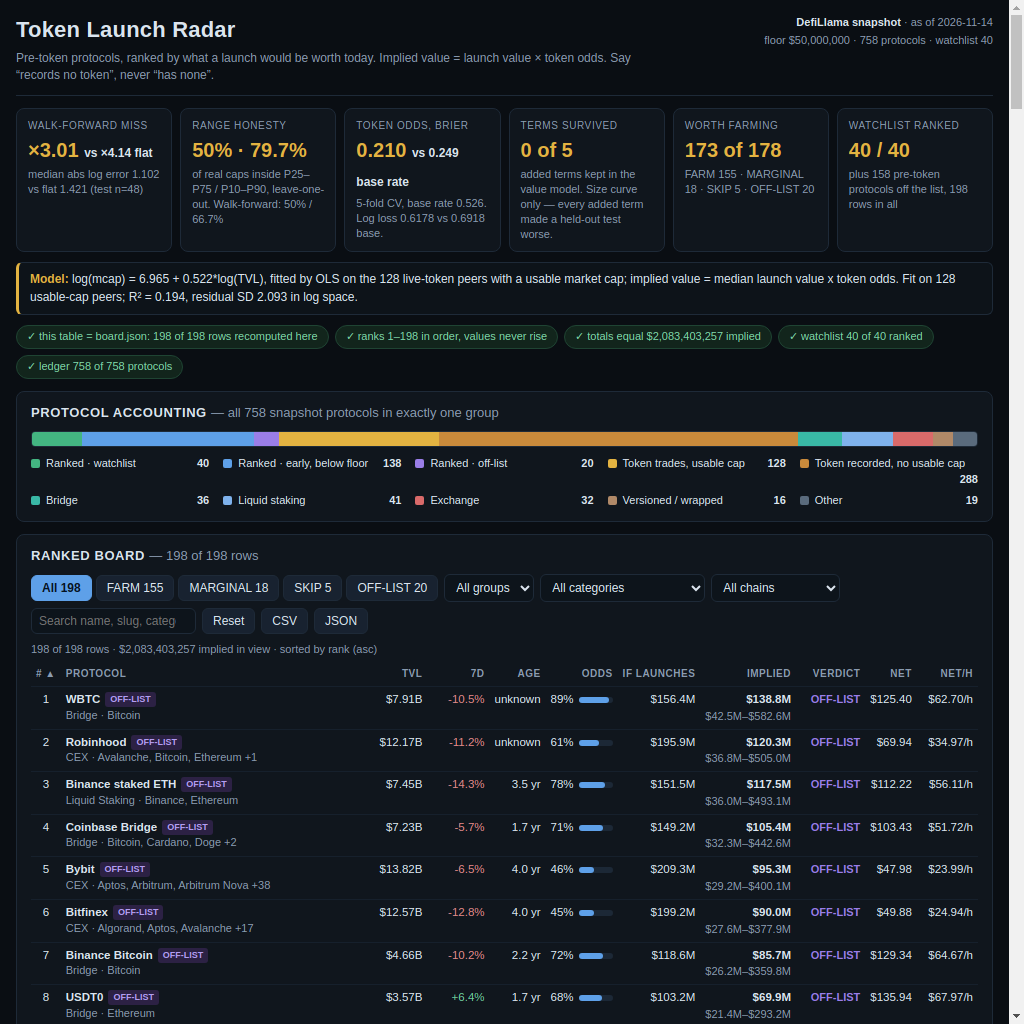
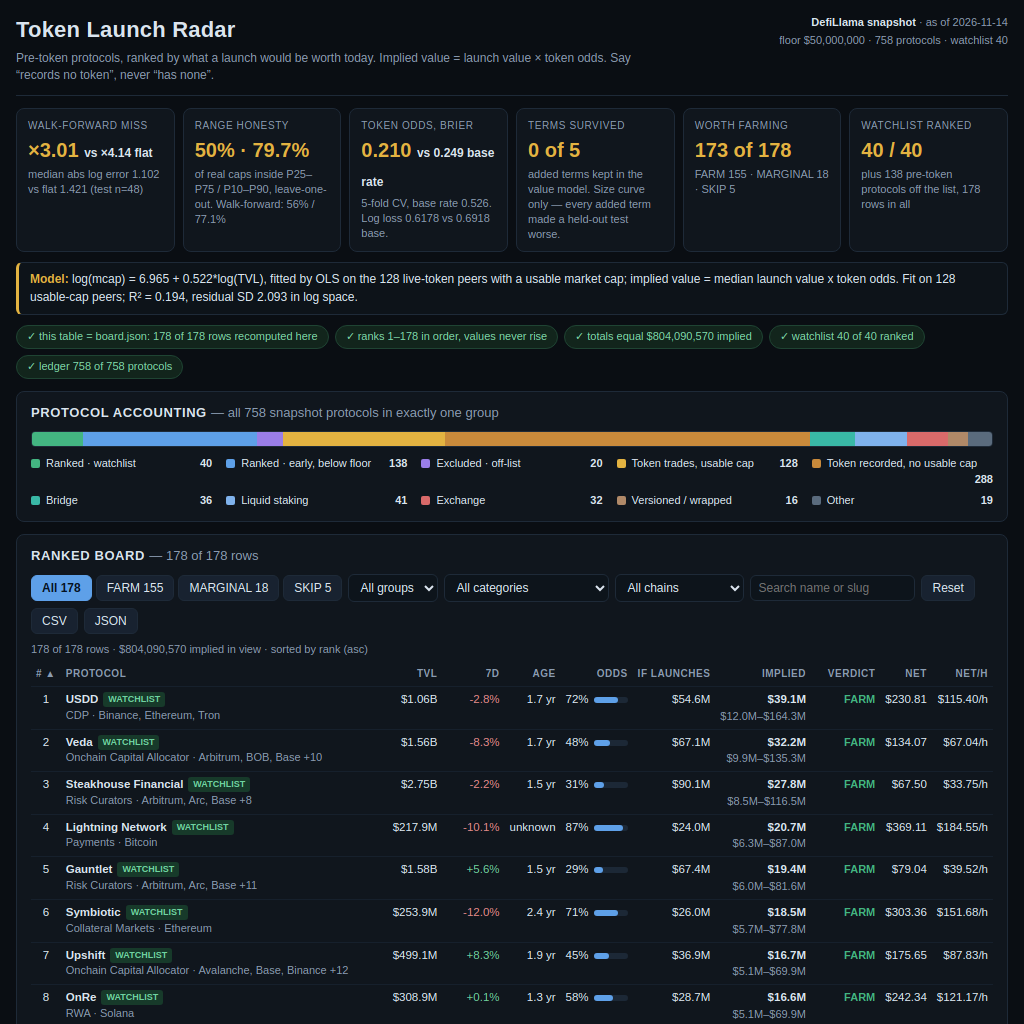
Token Launch Radar v2 — drop 20 off-list rows, rank 1 USDD, LOO calibration bands, fitted-vs-actual evidence

diff --git a/dashboard/index.html b/dashboard/index.html
@@ -48,7 +48,7 @@
     <tbody id="boardBody"></tbody>
   </table>
   </div>
-  <p class="hint">Click a row for its costed farm plan. Off-list rows are shown for coverage only and are never counted as worth farming.</p>
+  <p class="hint">Click a row for its costed farm plan. Every ranked row is a launch candidate; the 20 excluded off-list protocols are listed below, not ranked.</p>
 </section>
 
 <section class="panel">
@@ -64,6 +64,7 @@
       <table class="mini" id="oddsTable"></table>
       <h3>Is the printed range honest?</h3>
       <table class="mini" id="calTable"></table>
+      <p class="note">Walk-forward check with the same LOO bands: 56.2% of test caps inside P25&ndash;P75 (stated 50%) and 77.1% inside P10&ndash;P90 (stated 80%) &mdash; 27 of 48 and 37 of 48 test protocols.</p>
     </div>
     <div>
       <h3>How wide the bands are</h3>
@@ -72,6 +73,23 @@
       <h3>Farm economics <span class="dim">(assumptions, not fitted)</span></h3>
       <p class="note" id="farmNote"></p>
     </div>
+  </div>
+</section>
+
+<section class="panel">
+  <h2>Fitted vs actual &mdash; the 128 usable-cap peers</h2>
+  <div class="scatter"><svg width="100%" height="200" viewBox="0 0 320 200" role="img" aria-label="Fitted vs actual market cap, 128 peers"><g stroke="#16202c"><line x1="133.0" y1="18" x2="133.0" y2="174"/><line x1="271.8" y1="18" x2="271.8" y2="174"/><line x1="34" y1="160.1" x2="310" y2="160.1"/><line x1="34" y1="97.7" x2="310" y2="97.7"/><line x1="34" y1="35.3" x2="310" y2="35.3"/></g><g fill="#8a9bb0" font-size="9"><text x="133.0" y="192" text-anchor="middle">$100M TVL</text><text x="271.8" y="192" text-anchor="middle">$10B TVL</text><text x="30" y="163.1" text-anchor="end">$100K</text><text x="30" y="100.7" text-anchor="end">$10M</text><text x="30" y="38.3" text-anchor="end">$1B</text></g><line x1="34.0" y1="114.6" x2="310.0" y2="49.8" stroke="#e3b341" stroke-width="1.5"/><g fill="#5ea0e8" fill-opacity="0.75"><circle cx="130.2" cy="27.9" r="2.1"/><circle cx="73.6" cy="82.5" r="2.1"/><circle cx="65.2" cy="153.8" r="2.1"/><circle cx="85.8" cy="80.9" r="2.1"/><circle cx="71.8" cy="60.1" r="2.1"/><circle cx="68.6" cy="80.7" r="2.1"/><circle cx="103.2" cy="96.5" r="2.1"/><circle cx="74.2" cy="77.9" r="2.1"/><circle cx="56.7" cy="123.2" r="2.1"/><circle cx="114.4" cy="90.4" r="2.1"/><circle cx="233.3" cy="76.2" r="2.1"/><circle cx="179.9" cy="56.3" r="2.1"/><circle cx="65.6" cy="106.8" r="2.1"/><circle cx="129.3" cy="108.7" r="2.1"/><circle cx="68.7" cy="139.1" r="2.1"/><circle cx="131.5" cy="94.9" r="2.1"/><circle cx="129.8" cy="136.2" r="2.1"/><circle cx="57.4" cy="159.9" r="2.1"/><circle cx="103.8" cy="117.3" r="2.1"/><circle cx="208.4" cy="81.4" r="2.1"/><circle cx="100.0" cy="32.7" r="2.1"/><circle cx="62.3" cy="88.9" r="2.1"/><circle cx="107.3" cy="104.7" r="2.1"/><circle cx="147.2" cy="59.5" r="2.1"/><circle cx="66.6" cy="90.6" r="2.1"/><circle cx="105.9" cy="68.9" r="2.1"/><circle cx="118.5" cy="163.2" r="2.1"/><circle cx="205.2" cy="87.6" r="2.1"/><circle cx="179.1" cy="61.1" r="2.1"/><circle cx="79.7" cy="104.0" r="2.1"/><circle cx="140.5" cy="97.0" r="2.1"/><circle cx="250.3" cy="60.4" r="2.1"/><circle cx="88.3" cy="101.1" r="2.1"/><circle cx="126.1" cy="109.8" r="2.1"/><circle cx="58.4" cy="99.3" r="2.1"/><circle cx="53.0" cy="102.1" r="2.1"/><circle cx="66.7" cy="139.5" r="2.1"/><circle cx="71.7" cy="130.5" r="2.1"/><circle cx="215.8" cy="50.8" r="2.1"/><circle cx="63.8" cy="57.7" r="2.1"/><circle cx="63.9" cy="75.4" r="2.1"/><circle cx="112.1" cy="100.0" r="2.1"/><circle cx="53.3" cy="102.5" r="2.1"/><circle cx="126.2" cy="116.3" r="2.1"/><circle cx="48.3" cy="100.3" r="2.1"/><circle cx="253.6" cy="36.4" r="2.1"/><circle cx="84.0" cy="112.6" r="2.1"/><circle cx="48.5" cy="169.9" r="2.1"/><circle cx="205.4" cy="103.6" r="2.1"/><circle cx="44.3" cy="135.0" r="2.1"/><circle cx="74.8" cy="111.4" r="2.1"/><circle cx="57.5" cy="94.8" r="2.1"/><circle cx="62.6" cy="111.1" r="2.1"/><circle cx="172.4" cy="93.8" r="2.1"/><circle cx="85.8" cy="80.1" r="2.1"/><circle cx="120.5" cy="91.7" r="2.1"/><circle cx="64.9" cy="123.0" r="2.1"/><circle cx="67.6" cy="141.6" r="2.1"/><circle cx="93.9" cy="103.1" r="2.1"/><circle cx="101.1" cy="92.8" r="2.1"/><circle cx="54.1" cy="166.9" r="2.1"/><circle cx="91.3" cy="145.8" r="2.1"/><circle cx="64.4" cy="150.0" r="2.1"/><circle cx="290.7" cy="54.0" r="2.1"/><circle cx="58.4" cy="111.7" r="2.1"/><circle cx="43.0" cy="106.9" r="2.1"/><circle cx="45.7" cy="105.7" r="2.1"/><circle cx="84.4" cy="86.7" r="2.1"/><circle cx="130.4" cy="31.4" r="2.1"/><circle cx="170.8" cy="77.7" r="2.1"/><circle cx="54.2" cy="153.8" r="2.1"/><circle cx="94.0" cy="99.3" r="2.1"/><circle cx="178.7" cy="120.7" r="2.1"/><circle cx="243.0" cy="63.0" r="2.1"/><circle cx="55.3" cy="103.0" r="2.1"/><circle cx="64.2" cy="40.0" r="2.1"/><circle cx="206.5" cy="133.4" r="2.1"/><circle cx="301.0" cy="26.1" r="2.1"/><circle cx="56.8" cy="85.7" r="2.1"/><circle cx="142.9" cy="89.6" r="2.1"/><circle cx="230.8" cy="36.7" r="2.1"/><circle cx="210.0" cy="72.0" r="2.1"/><circle cx="89.3" cy="79.7" r="2.1"/><circle cx="106.7" cy="118.9" r="2.1"/><circle cx="135.3" cy="65.9" r="2.1"/><circle cx="51.2" cy="22.1" r="2.1"/><circle cx="180.8" cy="78.9" r="2.1"/><circle cx="128.5" cy="82.9" r="2.1"/><circle cx="107.8" cy="68.0" r="2.1"/><circle cx="130.4" cy="133.2" r="2.1"/><circle cx="48.7" cy="102.9" r="2.1"/><circle cx="107.6" cy="124.0" r="2.1"/><circle cx="200.3" cy="82.7" r="2.1"/><circle cx="103.4" cy="79.8" r="2.1"/><circle cx="75.8" cy="123.2" r="2.1"/><circle cx="59.6" cy="105.3" r="2.1"/><circle cx="154.1" cy="99.3" r="2.1"/><circle cx="272.4" cy="83.0" r="2.1"/><circle cx="146.1" cy="101.8" r="2.1"/><circle cx="155.8" cy="52.2" r="2.1"/><circle cx="85.8" cy="82.7" r="2.1"/><circle cx="59.9" cy="126.0" r="2.1"/><circle cx="110.5" cy="98.1" r="2.1"/><circle cx="43.6" cy="127.1" r="2.1"/><circle cx="98.4" cy="76.3" r="2.1"/><circle cx="192.7" cy="62.7" r="2.1"/><circle cx="56.7" cy="122.9" r="2.1"/><circle cx="53.5" cy="84.8" r="2.1"/><circle cx="65.9" cy="91.8" r="2.1"/><circle cx="112.9" cy="112.5" r="2.1"/><circle cx="72.5" cy="121.1" r="2.1"/><circle cx="115.8" cy="58.5" r="2.1"/><circle cx="190.0" cy="86.7" r="2.1"/><circle cx="113.6" cy="107.9" r="2.1"/><circle cx="64.9" cy="99.0" r="2.1"/><circle cx="146.7" cy="72.6" r="2.1"/><circle cx="126.0" cy="87.1" r="2.1"/><circle cx="95.0" cy="127.0" r="2.1"/><circle cx="66.1" cy="81.9" r="2.1"/><circle cx="47.9" cy="127.6" r="2.1"/><circle cx="114.7" cy="98.8" r="2.1"/><circle cx="157.3" cy="167.9" r="2.1"/><circle cx="71.6" cy="94.1" r="2.1"/><circle cx="127.0" cy="93.0" r="2.1"/><circle cx="68.5" cy="142.4" r="2.1"/><circle cx="130.0" cy="61.2" r="2.1"/><circle cx="117.7" cy="89.2" r="2.1"/><circle cx="58.0" cy="115.6" r="2.1"/></g><text x="34" y="12" fill="#dbe4ee" font-size="10">Each dot: one peer; gold line: fitted size curve</text></svg></div>
+  <p class="note">Fitted caps from log(mcap) = 6.965 + 0.522&middot;log(TVL). The 20 peers below are evenly spaced by TVL across all 128. Median actual / fitted is 1.08&times;; 56 of 128 peers land within 3&times; of fitted, 100 of 128 within 10&times; &mdash; the fit is weak (R&sup2; = 0.194), and the scatter shows it.</p>
+  <div class="tscroll">
+  <table class="mini" id="fittedTable"><thead><tr><th>Peer</th><th class="num">TVL</th><th class="num">Fitted cap</th><th class="num">Actual cap</th><th class="num">Actual / fitted</th></tr></thead><tbody><tr><td class="l">looped-hype</td><td class="num">$5.0M</td><td class="num">$3.4M</td><td class="num">$5.0M</td><td class="num">1.5&times;</td></tr><tr><td class="l">resolv-usr</td><td class="num">$6.1M</td><td class="num">$3.7M</td><td class="num">$6.8M</td><td class="num">1.8&times;</td></tr><tr><td class="l">merlinswap</td><td class="num">$7.3M</td><td class="num">$4.1M</td><td class="num">$159K</td><td class="num">0.04&times;</td></tr><tr><td class="l">zyfai</td><td class="num">$8.3M</td><td class="num">$4.3M</td><td class="num">$2.7M</td><td class="num">0.6&times;</td></tr><tr><td class="l">flokifi-locker</td><td class="num">$10M</td><td class="num">$4.8M</td><td class="num">$191M</td><td class="num">39.7&times;</td></tr><tr><td class="l">acryptos</td><td class="num">$11M</td><td class="num">$4.9M</td><td class="num">$158K</td><td class="num">0.03&times;</td></tr><tr><td class="l">yield-yak-aggregator</td><td class="num">$12M</td><td class="num">$5.2M</td><td class="num">$368K</td><td class="num">0.07&times;</td></tr><tr><td class="l">across</td><td class="num">$14M</td><td class="num">$5.7M</td><td class="num">$31M</td><td class="num">5.4&times;</td></tr><tr><td class="l">manta-pacific</td><td class="num">$20M</td><td class="num">$6.9M</td><td class="num">$22M</td><td class="num">3.3&times;</td></tr><tr><td class="l">inverse-finance-firm</td><td class="num">$27M</td><td class="num">$8.1M</td><td class="num">$6.7M</td><td class="num">0.8&times;</td></tr><tr><td class="l">sdai</td><td class="num">$37M</td><td class="num">$9.5M</td><td class="num">$37M</td><td class="num">3.9&times;</td></tr><tr><td class="l">stusdt</td><td class="num">$47M</td><td class="num">$11M</td><td class="num">$9.7M</td><td class="num">0.9&times;</td></tr><tr><td class="l">thorchain-dex</td><td class="num">$56M</td><td class="num">$12M</td><td class="num">$180M</td><td class="num">15.2&times;</td></tr><tr><td class="l">yield-basis</td><td class="num">$82M</td><td class="num">$14M</td><td class="num">$14M</td><td class="num">1.0&times;</td></tr><tr><td class="l">reservoir-protocol</td><td class="num">$92M</td><td class="num">$15M</td><td class="num">$729K</td><td class="num">0.05&times;</td></tr><tr><td class="l">usd-ai</td><td class="num">$157M</td><td class="num">$20M</td><td class="num">$63M</td><td class="num">3.1&times;</td></tr><tr><td class="l">meth-protocol</td><td class="num">$455M</td><td class="num">$35M</td><td class="num">$1.8M</td><td class="num">0.05&times;</td></tr><tr><td class="l">concrete</td><td class="num">$1.10B</td><td class="num">$56M</td><td class="num">$21M</td><td class="num">0.4&times;</td></tr><tr><td class="l">polygon-bridge</td><td class="num">$2.56B</td><td class="num">$87M</td><td class="num">$902M</td><td class="num">10.4&times;</td></tr><tr><td class="l">okx</td><td class="num">$26B</td><td class="num">$293M</td><td class="num">$1.97B</td><td class="num">6.7&times;</td></tr></tbody></table>
+  </div>
+</section>
+
+<section class="panel">
+  <h2>Excluded from ranking &mdash; token already trades</h2>
+  <p class="note">These 20 protocols are the highest-implied pre-token protocols the watchlist rule excludes. Their implied values are mechanical size-curve extrapolations, not launch values: each is a bridge, a liquid-staking product, a centralised exchange, or a versioned / wrapped variant of a token that already trades. They are not ranked, not counted as worth farming, and their 20 rows are the ledger&rsquo;s excluded_off_list group. Together they would have been $1,279M of implied value &mdash; 61% of the old board total &mdash; which is why they are listed here, not on the board.</p>
+  <div class="tscroll">
+  <table class="mini" id="excludedTable"><thead><tr><th>Protocol</th><th>Reason excluded</th><th class="num">Mechanical implied value</th></tr></thead><tbody><tr><td class="l">wbtc</td><td>Bridge</td><td class="num">$139M</td></tr><tr><td class="l">robinhood</td><td>Exchange</td><td class="num">$120M</td></tr><tr><td class="l">binance-staked-eth</td><td>Liquid staking</td><td class="num">$117M</td></tr><tr><td class="l">coinbase-bridge</td><td>Bridge</td><td class="num">$105M</td></tr><tr><td class="l">bybit</td><td>Exchange</td><td class="num">$95M</td></tr><tr><td class="l">bitfinex</td><td>Exchange</td><td class="num">$90M</td></tr><tr><td class="l">binance-bitcoin</td><td>Bridge</td><td class="num">$86M</td></tr><tr><td class="l">usdt0</td><td>Bridge</td><td class="num">$70M</td></tr><tr><td class="l">base-bridge</td><td>Bridge</td><td class="num">$68M</td></tr><tr><td class="l">bitget</td><td>Exchange</td><td class="num">$54M</td></tr><tr><td class="l">htx</td><td>Exchange</td><td class="num">$43M</td></tr><tr><td class="l">deribit</td><td>Exchange</td><td class="num">$40M</td></tr><tr><td class="l">bitstamp</td><td>Exchange</td><td class="num">$40M</td></tr><tr><td class="l">ccip</td><td>Bridge</td><td class="num">$33M</td></tr><tr><td class="l">kucoin</td><td>Exchange</td><td class="num">$32M</td></tr><tr><td class="l">binance-staked-sol</td><td>Liquid staking</td><td class="num">$31M</td></tr><tr><td class="l">unit</td><td>Bridge</td><td class="num">$31M</td></tr><tr><td class="l">gemini</td><td>Exchange</td><td class="num">$30M</td></tr><tr><td class="l">crypto-com</td><td>Exchange</td><td class="num">$28M</td></tr><tr><td class="l">kraken-bitcoin</td><td>Bridge</td><td class="num">$27M</td></tr></tbody></table>
   </div>
 </section>
 

diff --git a/main.ts b/main.ts
@@ -21,9 +21,11 @@
 //     at a $3.00 fee and 2.0 hours per protocol.
 //
 // Board membership is derived from the snapshot, never from a hand-kept list
-// of names: all 40 watchlist slugs, every eligible below-floor pre-token
-// protocol ("early"), and the 20 highest-implied pre-token protocols the
-// watchlist rule excludes ("off-list", shown for coverage, verdict OFF-LIST).
+// of names: all 40 watchlist slugs and every eligible below-floor pre-token
+// protocol ("early"). The 20 highest-implied pre-token protocols the
+// watchlist rule excludes are NOT ranked: their token already trades (bridge,
+// liquid-staking, exchange, versioned-wrapped), so they are listed separately
+// in data.js as excluded_off_list and in the dashboard's audit section.
 // Saying a protocol "records no token" means the snapshot records none —
 // never a claim that it has none.
 //
@@ -51,7 +53,10 @@ const VALUE_INTERCEPT = 6.96456651;
 const VALUE_SLOPE = 0.52226555;
 /** Residual SD of the value fit, in log space (R^2 = 0.194, n = 128 peers). */
 const VALUE_RESIDUAL_SD = 2.093;
-/** Band multipliers on the point prediction, from leave-one-out residuals. */
+/** Band multipliers on the point prediction, from leave-one-out residuals
+ * (all 128 usable-cap peers). Walk-forward coverage below is measured with
+ * these same LOO bands on the walk-forward test residuals (27/48 inside
+ * P25–P75, 37/48 inside P10–P90). */
 const BAND = { p25: 0.306, p75: 4.197, p10: 0.062, p90: 8.629 };
 
 /** Token-odds logistic model: standardisation of the two z-scored inputs
@@ -93,8 +98,8 @@ const FARM_PER_HOUR_MIN = 12.5;
 const MARGINAL_NET_MIN = 5.0;
 const MARGINAL_PER_HOUR_MIN = 2.5;
 
-/** How many off-list rows the board shows, by implied value. */
-const OFF_LIST_SHOWN = 20;
+/** How many excluded off-list rows the audit section lists, by implied value. */
+const EXCLUDED_SHOWN = 20;
 
 /** Watchlist-rule patterns, restated from the snapshot's field guide. */
 const VERSION_RE = /\s(V\d+(\.\d+)?|v\d+(\.\d+)?|\d+\.\d+)$/;
@@ -401,10 +406,11 @@ for (const p of preToken) {
 const offScored = offPool
   .map((p) => ({ row: scoreProtocol(p, 'off-list', offListReason(p), false), p }))
   .sort((a, b) => b.row.implied_usd - a.row.implied_usd || bySlug(a.row.slug, b.row.slug));
-const offRows = offScored.slice(0, OFF_LIST_SHOWN).map((o) => o.row);
-const offBoardSlugs = new Set(offRows.map((r) => r.slug));
+/** The 20 highest-implied excluded protocols: NOT ranked, listed in the audit section. */
+const excludedRows = offScored.slice(0, EXCLUDED_SHOWN).map((o) => o.row);
+const excludedSlugs = new Set(excludedRows.map((r) => r.slug));
 
-const board = [...watchRows, ...earlyRows, ...offRows].sort(
+const board = [...watchRows, ...earlyRows].sort(
   (a, b) => b.implied_usd - a.implied_usd || bySlug(a.slug, b.slug),
 );
 board.forEach((row, i) => {
@@ -416,7 +422,7 @@ board.forEach((row, i) => {
 
 /** Every protocol in exactly one ledger group (sums to the snapshot size). */
 function ledgerCounts(): Record<string, number> {
-  const remainder = offPool.filter((p) => !offBoardSlugs.has(p.slug));
+  const remainder = offPool.filter((p) => !excludedSlugs.has(p.slug));
   const groups: Record<string, number> = { bridge: 0, 'liquid-staking': 0, exchange: 0, 'versioned-wrapped': 0, other: 0 };
   for (const p of remainder) groups[offListReason(p)] = (groups[offListReason(p)] ?? 0) + 1;
   const tokenTrades = snapshot.protocols.filter((p) => p.mcap_usd !== null && p.mcap_usd > 0).length;
@@ -424,7 +430,7 @@ function ledgerCounts(): Record<string, number> {
   return {
     ranked_watchlist: watchRows.length,
     ranked_early: earlyRows.length,
-    ranked_off_list: offRows.length,
+    excluded_off_list: excludedRows.length,
     token_trades: tokenTrades,
     no_usable_cap: noUsableCap,
     bridge: groups['bridge'] ?? 0,
@@ -465,7 +471,10 @@ const radarData = {
   meta: {
     title: 'Token Launch Radar',
     as_of: asOf,
-    source: snapshot.source,
+    // The snapshot's source string carries its fetch URL; strip it so no
+    // output file contains an http(s) string (the dashboard shows only the
+    // first word of this field, and the dossier never includes data.js).
+    source: snapshot.source.replace(/\s*https?:\/\/\S+/, ''),
     floor_usd: floorUsd,
     protocols_in_snapshot: snapshot.protocols.length,
     watchlist_size: snapshot.watchlist.length,
@@ -533,7 +542,7 @@ const radarData = {
     ],
     validation: {
       loo: { n: 128, median_abs_log_error: 1.223, multiplicative_miss_median_x: 3.4, flat_baseline_median_abs_log_error: 1.591, flat_baseline_multiplicative_miss_median_x: 4.91, range_coverage_p25_p75: 0.5, range_coverage_p10_p90: 0.797 },
-      walk_forward: { split_date: '2024-02-18', train_n: 47, test_n: 48, median_abs_log_error: 1.102, multiplicative_miss_median_x: 3.01, flat_baseline_median_abs_log_error: 1.421, flat_baseline_multiplicative_miss_median_x: 4.14, range_coverage_p25_p75: 0.5, range_coverage_p10_p90: 0.667 },
+      walk_forward: { split_date: '2024-02-18', train_n: 47, test_n: 48, median_abs_log_error: 1.102, multiplicative_miss_median_x: 3.01, flat_baseline_median_abs_log_error: 1.421, flat_baseline_multiplicative_miss_median_x: 4.14, range_coverage_p25_p75: 0.5625, range_coverage_p10_p90: 0.7708 },
       token_odds: { cv_brier_5fold: 0.21, base_rate_brier: 0.249, cv_log_loss: 0.6178, base_log_loss: 0.6918 },
     },
     farm_economics: {
@@ -557,13 +566,25 @@ const radarData = {
       'Odds are miscalibrated at the bottom: the lowest CV decile predicts 0.059 mean odds vs 0.214 observed.',
       'change_7d was dropped from both models (one +4448.5% outlier dominates its scale in the odds model; it hurt LOO in the value model).',
       'Implied values are conditional medians, not means; the lognormal mean would be ~8.9x the median.',
-      'Walk-forward P10-P90 bands under-cover at 66.7% (LOO 79.7%): the wide bands are still too narrow out of time.',
-      'Off-list rows are mechanical extrapolations, not launch candidates; their odds (up to 0.888) are overstated by a model with no wrapped/exchange feature.',
+      'Walk-forward bands cover 56.2% (P25-P75) and 77.1% (P10-P90) against stated 50% / 80%, measured with the same LOO bands the board uses: the P10-P90 band still under-covers slightly out of time.',
+      'The 20 excluded off-list protocols are mechanical extrapolations, not launch candidates; their odds (up to 0.888) are overstated by a model with no wrapped/exchange feature. They are listed, not ranked, in the audit section.',
       'Farm economics are assumptions stated above and cannot be validated from the snapshot; treat net $ as a ranking aid, not a promise.',
       '"Records no token" means the snapshot records none — never a claim that a protocol has none.',
     ],
   },
   board,
+  /** The 20 highest-implied pre-token protocols the watchlist rule excludes: not ranked, not farmable. */
+  excluded_off_list: excludedRows.map((r) => ({
+    slug: r.slug,
+    name: r.name,
+    category: r.category,
+    tvl_usd: r.tvl_usd,
+    off_list_reason: r.off_list_reason,
+    odds: r.odds,
+    if_launches_usd: r.if_launches_usd,
+    implied_usd: r.implied_usd,
+    implied_value_usd: r.implied_value_usd,
+  })),
   live_top_24: liveTop24,
 };
 
@@ -641,8 +662,8 @@ else {
 }
 
 process.stdout.write(
-  `token-launch-radar: ${snapshot.protocols.length} protocols, watchlist ${snapshot.watchlist.length}, board ${board.length} rows (watchlist ${watchRows.length}, early ${earlyRows.length}, off-list ${offRows.length})\n` +
-    `token-launch-radar: worth farming ${worthFarming}/${farmableRows.length} (FARM ${verdictCounts['FARM']}, MARGINAL ${verdictCounts['MARGINAL']}, SKIP ${verdictCounts['SKIP']}, OFF-LIST ${verdictCounts['OFF-LIST']}); total implied ${money(totalImplied)}, farmable ${money(totalImpliedFarmable)}\n` +
+  `token-launch-radar: ${snapshot.protocols.length} protocols, watchlist ${snapshot.watchlist.length}, board ${board.length} rows (watchlist ${watchRows.length}, early ${earlyRows.length}), excluded off-list ${excludedRows.length}\n` +
+    `token-launch-radar: worth farming ${worthFarming}/${farmableRows.length} (FARM ${verdictCounts['FARM']}, MARGINAL ${verdictCounts['MARGINAL']}, SKIP ${verdictCounts['SKIP']}); total implied ${money(totalImplied)}, farmable ${money(totalImpliedFarmable)}\n` +
     `token-launch-radar: sorted non-rising: yes; farm-step violations: 0; dashboard files copied: ${dashFiles.length}; screenshots copied: ${shotFiles.length}\n` +
     `token-launch-radar: wrote ${join(outDir, 'board.json')}, ${join(outDir, 'data.js')}${existsSync(join(outDir, 'dossier.json')) ? `, ${join(outDir, 'dossier.json')}` : ' (no dossier: dashboard/screenshots absent)'}\n`,
 );

diff --git a/dashboard/app.js b/dashboard/app.js
@@ -31,7 +31,7 @@ function render(){
     ["Range honesty",""+(V.loo.range_coverage_p25_p75*100).toFixed(0)+"% &middot; "+(V.loo.range_coverage_p10_p90*100).toFixed(1)+"%","of real caps inside P25&ndash;P75 / P10&ndash;P90, leave-one-out. Walk-forward: "+(V.walk_forward.range_coverage_p25_p75*100).toFixed(0)+"% / "+(V.walk_forward.range_coverage_p10_p90*100).toFixed(1)+"%"],
     ["Token odds, Brier",V.token_odds.cv_brier_5fold.toFixed(3)+" <small>vs "+V.token_odds.base_rate_brier.toFixed(3)+" base rate</small>","5-fold CV, base rate "+Mo.token_odds_model.base_rate+". Log loss "+V.token_odds.cv_log_loss+" vs "+V.token_odds.base_log_loss+" base."],
     ["Terms survived",kept+" of "+Mo.keep_drop.length,"added terms kept in the value model. Size curve only &mdash; every added term made a held-out test worse."],
-    ["Worth farming",K.worth_farming+" of "+K.farmable_rows,"FARM "+K.verdict_counts.FARM+" &middot; MARGINAL "+K.verdict_counts.MARGINAL+" &middot; SKIP "+K.verdict_counts.SKIP+" &middot; OFF-LIST "+K.verdict_counts["OFF-LIST"]],
+    ["Worth farming",K.worth_farming+" of "+K.farmable_rows,"FARM "+K.verdict_counts.FARM+" &middot; MARGINAL "+K.verdict_counts.MARGINAL+" &middot; SKIP "+K.verdict_counts.SKIP],
     ["Watchlist ranked",K.watchlist_covered+" / "+M.watchlist_size,"plus "+(K.rows-K.watchlist_covered)+" pre-token protocols off the list, "+K.rows+" rows in all"]
   ];
   $("kpis").innerHTML=kpis.map(function(k){return '<div class="kpi"><div class="l">'+k[0]+'</div><div class="v">'+k[1]+'</div><div class="s">'+k[2]+'</div></div>';}).join("");
@@ -49,7 +49,7 @@ function render(){
   ];
   $("checks").innerHTML=checks.map(function(c){return '<span class="'+(c[1]?"":"bad")+'">'+(c[1]?"\u2713 ":"\u2717 ")+c[0]+"</span>";}).join("");
   // ledger
-  var groups=[["ranked_watchlist","Ranked \u00b7 watchlist","#43b581"],["ranked_early","Ranked \u00b7 early, below floor","#5ea0e8"],["ranked_off_list","Ranked \u00b7 off-list","#9a7ee8"],["token_trades","Token trades, usable cap","#e3b341"],["no_usable_cap","Token recorded, no usable cap","#c98a3b"],["bridge","Bridge","#39b8a6"],["liquid_staking","Liquid staking","#7fb2ec"],["exchange","Exchange","#d96a6a"],["versioned_wrapped","Versioned / wrapped","#b08968"],["other","Other","#5a6b7d"]];
+  var groups=[["ranked_watchlist","Ranked \u00b7 watchlist","#43b581"],["ranked_early","Ranked \u00b7 early, below floor","#5ea0e8"],["excluded_off_list","Excluded \u00b7 off-list","#9a7ee8"],["token_trades","Token trades, usable cap","#e3b341"],["no_usable_cap","Token recorded, no usable cap","#c98a3b"],["bridge","Bridge","#39b8a6"],["liquid_staking","Liquid staking","#7fb2ec"],["exchange","Exchange","#d96a6a"],["versioned_wrapped","Versioned / wrapped","#b08968"],["other","Other","#5a6b7d"]];
   $("ledgerTitle").textContent="— all "+M.protocols_in_snapshot+" snapshot protocols in exactly one group";
   $("ledgerBar").innerHTML=groups.map(function(g){return '<div style="width:'+(L[g[0]]/M.protocols_in_snapshot*100).toFixed(2)+'%;background:'+g[2]+'" title="'+esc(g[1])+": "+L[g[0]]+'"></div>';}).join("");
   $("ledgerLegend").innerHTML=groups.map(function(g){return '<span><i style="background:'+g[2]+'"></i>'+esc(g[1])+"<b>"+L[g[0]]+"</b></span>";}).join("");
@@ -154,12 +154,12 @@ function renderBoard(){
   }).join("");
 }
 function initBoard(){
-  var tabs=["All","FARM","MARGINAL","SKIP","OFF-LIST"];
+  var tabs=["All","FARM","MARGINAL","SKIP"];
   $("tabs").innerHTML=tabs.map(function(t){
     var n=t==="All"?D.board.length:D.board.filter(function(r){return r.verdict===t;}).length;
     return '<button type="button" data-tab="'+t+'" class="'+(state.tab===t?"on":"")+'">'+t+" "+n+"</button>";
   }).join("");
-  var gs=[["all","All groups"],["watchlist","Watchlist"],["early","Early"],["off-list","Off-list"]];
+  var gs=[["all","All groups"],["watchlist","Watchlist"],["early","Early"]];
   $("groupSel").innerHTML=gs.map(function(g){return '<option value="'+g[0]+'">'+g[1]+"</option>";}).join("");
   var cats=[...new Set(D.board.map(function(r){return r.category;}).filter(Boolean))].sort();
   $("catSel").innerHTML='<option value="all">All categories</option>'+cats.map(function(c){return '<option value="'+esc(c)+'">'+esc(c)+"</option>";}).join("");
@@ -186,7 +186,7 @@ function initBoard(){
   $("jsonBtn").addEventListener("click",function(){download("token-radar-board.json",JSON.stringify(filtered(),null,1),"application/json");});
   // Deep links (?tab=FARM&open=usdd&group=watchlist&q=...) for screenshots and sharing.
   try{var P=new URLSearchParams(location.search);
-    if(P.get("tab")&&["All","FARM","MARGINAL","SKIP","OFF-LIST"].indexOf(P.get("tab"))>=0){state.tab=P.get("tab");
+    if(P.get("tab")&&["All","FARM","MARGINAL","SKIP"].indexOf(P.get("tab"))>=0){state.tab=P.get("tab");
       Array.prototype.forEach.call($("tabs").children,function(x){x.classList.toggle("on",x.getAttribute("data-tab")===state.tab);});}
     if(P.get("group")){state.group=P.get("group");$("groupSel").value=state.group;}
     if(P.get("cat")){state.cat=P.get("cat");$("catSel").value=state.cat;}

diff --git a/dashboard/app.css b/dashboard/app.css
@@ -74,6 +74,8 @@ td.name .sub2{display:block;font-weight:400;color:var(--mut);font-size:11px}
 .evgrid{display:grid;grid-template-columns:1.15fr 1fr 1fr;gap:0 22px}
 .note{color:var(--mut);font-size:11px;margin:6px 0}
 .note b{color:var(--txt)}
+.scatter{max-width:680px}
+.scatter svg{display:block}
 .live td,.live th{white-space:nowrap}
 .caveats{margin:0;padding-left:18px;color:var(--mut)}
 .caveats li{margin-bottom:5px}
